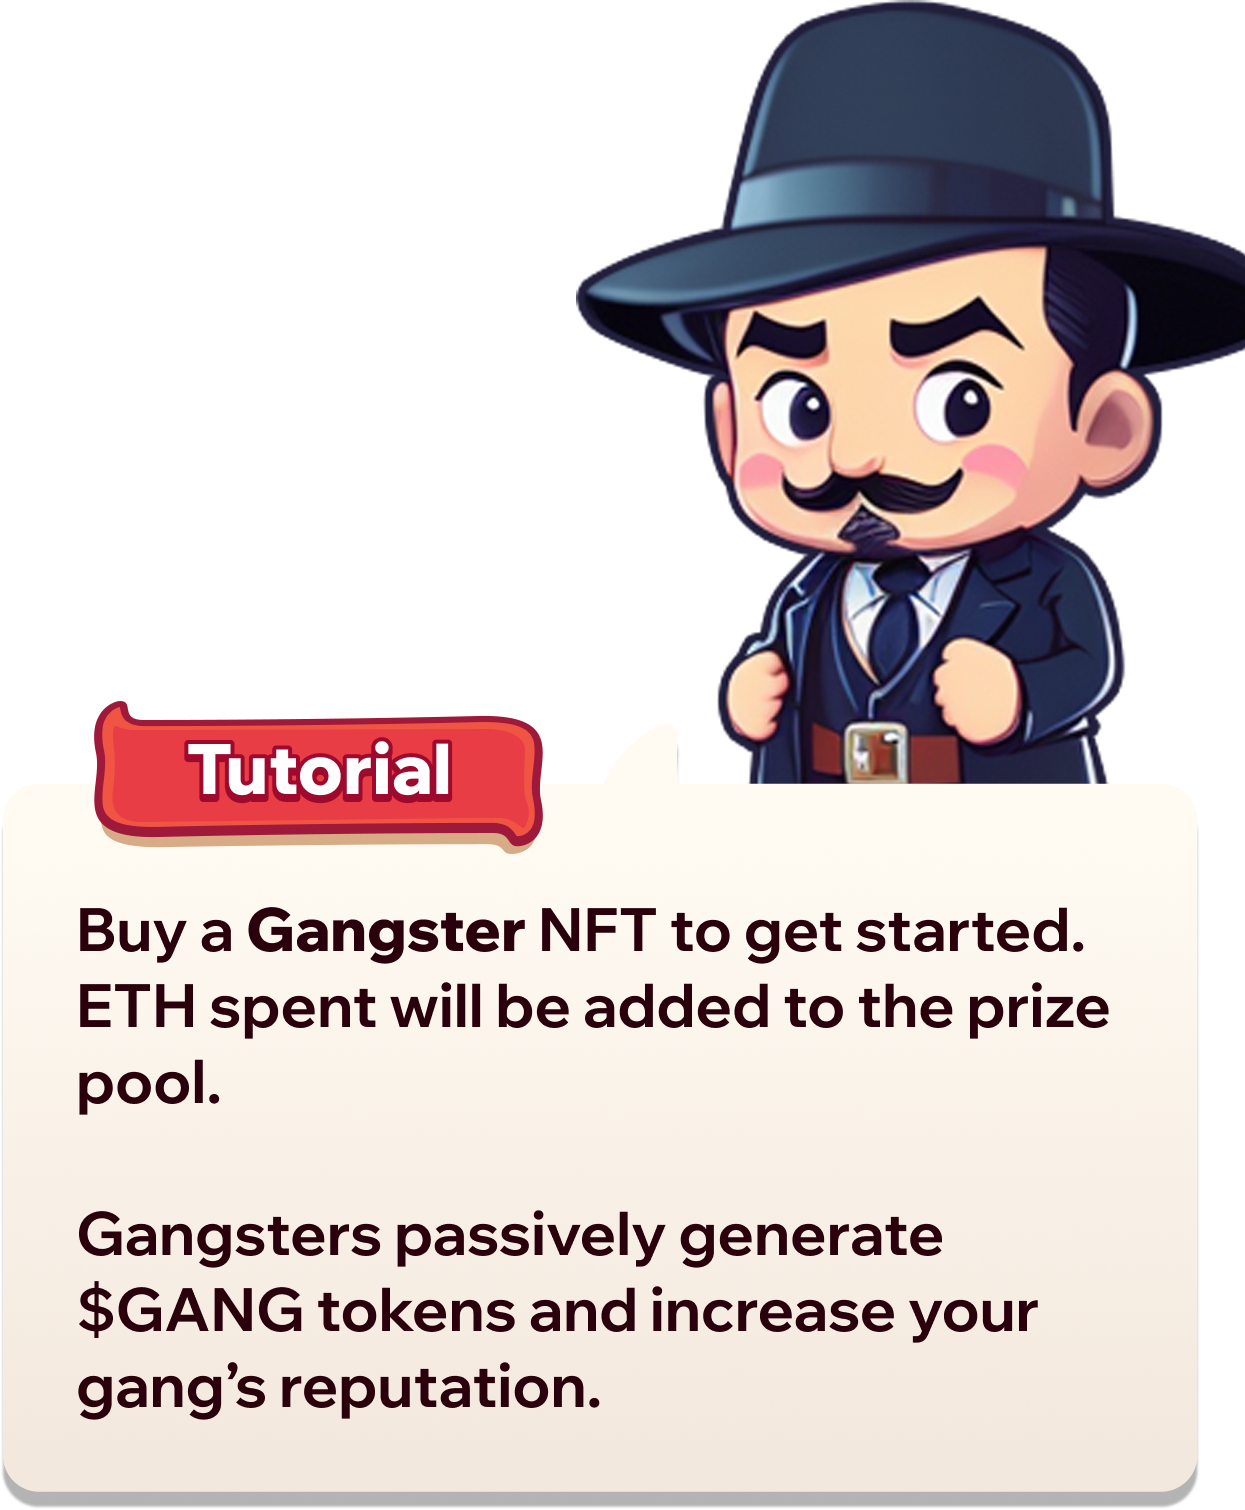
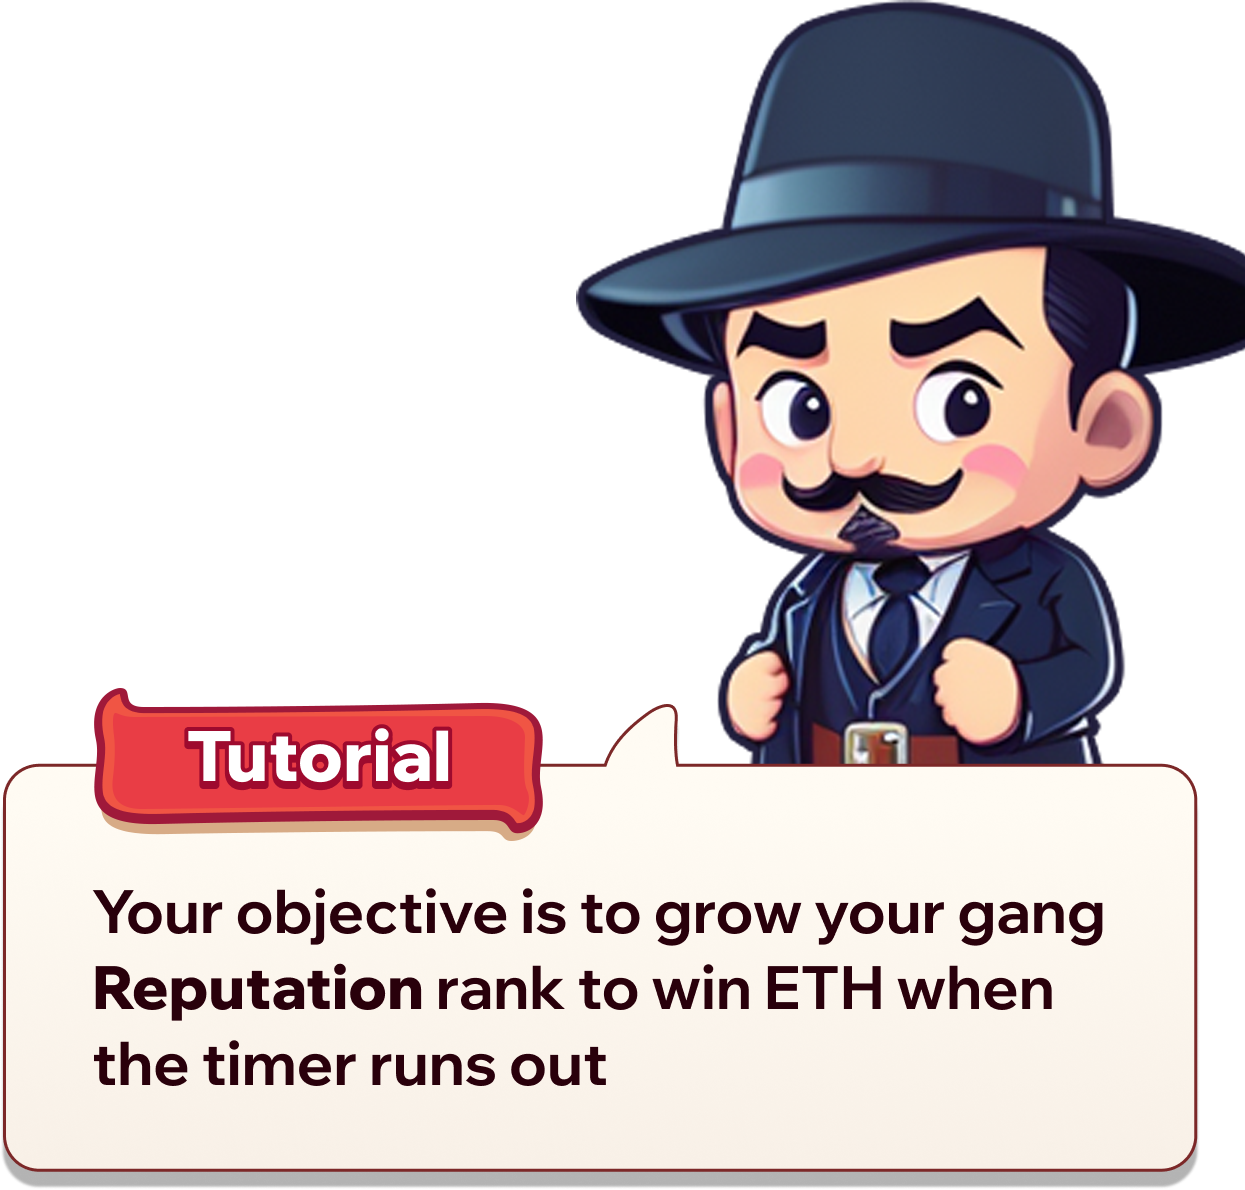
feat: step 2

diff --git a/app/src/pages/Game/components/tutorials/Step2.js b/app/src/pages/Game/components/tutorials/Step2.js
@@ -1,17 +1,12 @@
 import Phaser from 'phaser';
 
-import Button from '../button/Button';
-import configs from '../../configs/configs';
 import TutorialCharacter from './TutorialCharacter';
+import configs from '../../configs/configs';
 
 const { width, height } = configs;
 
-const px = 40;
-const buttonWidth = 288;
-const y = 2600;
-
 class Step2 extends Phaser.GameObjects.Container {
-  clicked = false;
+  openTimeout = null;
 
   constructor(scene, onNext) {
     super(scene, 0, 0);
@@ -19,46 +14,49 @@ class Step2 extends Phaser.GameObjects.Container {
     this.setVisible(false);
 
     const next = () => {
-      scene.popupBuy.setVisible(false);
-      scene.popupBuyGangster.setDepth(5);
-      scene.popupBuyGangster.background?.destroy();
-      scene.popupBuyGangster.open();
+      scene.popupLeaderboard.close();
+      scene.tutorial.background.setVisible(true);
+      scene.tutorial.leftBg?.destroy();
+      scene.tutorial.rightBg?.destroy();
+
       onNext();
     };
 
-    this.activeButton = new Button(
-      scene,
-      width - px - buttonWidth / 2,
-      y,
-      'button-buy',
-      'button-buy-pressed',
-      () => {
-        if (this.clicked) return;
-        this.clicked = true;
+    this.overlay = scene.add.image(width / 2, height / 2 + 20, 'tutorial-2-overlay');
+    this.add(this.overlay);
+    this.character = new TutorialCharacter(scene, width / 2, height - 650, 'tutorial-2', next);
+    this.add(this.character);
+  }
 
-        this.character = new TutorialCharacter(scene, width / 2, height / 2 - 600, 'tutorial-2', () => {});
-        this.add(this.character);
+  start() {
+    // wait for rexUI plugin loader to finish
+    if (!this.scene.popupLeaderboard) {
+      if (this.openTimeout) clearTimeout(this.openTimeout);
+      this.openTimeout = setTimeout(() => this.start(), 200);
+    }
 
-        this.arrow1.setVisible(false);
-        this.arrow.setVisible(true);
-        scene.popupWar.setVisible(false);
-        scene.popupBuy.setDepth(5);
-        scene.popupBuy.updateDisabled({ goonDisabled: true, gangsterDisabled: false, houseDisabled: true });
-        scene.popupBuy.updateCallback(() => next());
-        scene.popupBuy.setVisible(true);
-      },
-      { sound: 'button-1' }
-    );
-    this.add(this.activeButton);
+    this.setVisible(true);
 
-    this.arrow1 = scene.add
-      .image(this.activeButton.x, this.activeButton.y - this.activeButton.height / 2 - 20, 'tutorial-arrow-down')
-      .setOrigin(0.5, 1);
-    this.add(this.arrow1);
+    // effects
+    this.scene.popupLeaderboard.open();
+    this.scene.popupLeaderboard.setDepth(1);
+    this.scene.popupLeaderboard.background?.destroy();
+    this.scene.tutorial.background.setVisible(false);
 
-    this.arrow = scene.add.image(width - 360, 1900, 'tutorial-arrow-right').setOrigin(1, 0);
-    this.arrow.setVisible(false);
-    this.add(this.arrow);
+    const overlayWidth = this.overlay.width * 0.92;
+    if (overlayWidth < width) {
+      const sidePieceWidth = (width - overlayWidth) / 2;
+      this.scene.tutorial.leftBg = this.scene.add
+        .rectangle(0, 0, sidePieceWidth, height, 0x260343, 0.8)
+        .setOrigin(0, 0)
+        .setDepth(1);
+      this.scene.tutorial.rightBg = this.scene.add
+        .rectangle(width, 0, sidePieceWidth, height, 0x260343, 0.8)
+        .setOrigin(1, 0)
+        .setDepth(1);
+      this.scene.add.existing(this.scene.tutorial.leftBg);
+      this.scene.add.existing(this.scene.tutorial.rightBg);
+    }
   }
 }
 

diff --git a/app/src/pages/Game/components/popup/PopupLeaderboard.js b/app/src/pages/Game/components/popup/PopupLeaderboard.js
@@ -32,10 +32,9 @@ class PopupLeaderboard extends Popup {
   items = [];
   avatars = {};
 
-  constructor(scene, { isSimulator, onClose, onClickRank, onClickReputation } = {}) {
+  constructor(scene, { isSimulator } = {}) {
     super(scene, 'popup-extra-large', { title: 'Season Leaderboard', noCloseBtn: true });
 
-    this.onCloseCallback = onClose;
     this.isSimulator = isSimulator;
     const events = {
       updateSeason: isSimulator ? 'simulator-update-season' : 'update-season',
@@ -136,7 +135,6 @@ class PopupLeaderboard extends Popup {
             component.text = this.rankRewards[index];
           });
           this.playerReward.text = `~${formatter.format(this.userRankingReward)}`;
-          if (isSimulator) onClickRank();
         },
       },
       modeTwo: {
@@ -148,7 +146,6 @@ class PopupLeaderboard extends Popup {
             component.text = this.reputationRewards[index];
           });
           this.playerReward.text = `~${formatter.format(this.userReputationReward)}`;
-          if (isSimulator) onClickReputation();
         },
       },
     });
@@ -274,7 +271,6 @@ class PopupLeaderboard extends Popup {
 
   cleanup() {
     this.table?.scrollToTop();
-    this.onCloseCallback?.();
     if (this.table) {
       this.table.setMouseWheelScrollerEnable(false);
       this.leaderboardThumb?.setVisible(false);

diff --git a/app/src/pages/Game/scenes/TutorialScene.js b/app/src/pages/Game/scenes/TutorialScene.js
@@ -157,22 +157,7 @@ class TutorialScene extends Phaser.Scene {
       }); // done
       this.add.existing(this.popupBuyGangster);
 
-      this.popupLeaderboard = new PopupLeaderboard(this, {
-        isSimulator: true,
-        onClose: () => {
-          this.tutorial.step11.setVisible(false);
-          this.tutorial.step12.setVisible(false);
-          this.tutorial.background.setDisplaySize(width, height);
-          this.tutorial.lowerBackground?.destroy();
-          this.tutorial.step13.setVisible(true);
-        },
-        onClickRank: () => {
-          this.tutorial.step12.arrow.setX(width / 2);
-        },
-        onClickReputation: () => {
-          this.tutorial.step12.arrow.setX(width / 2 - this.popupLeaderboard.popup.width * 0.23);
-        },
-      }); // done
+      this.popupLeaderboard = new PopupLeaderboard(this, { isSimulator: true });
       this.add.existing(this.popupLeaderboard);
 
       this.popupPrizePool = new PopupPrizePool(this, { isSimulator: true }); // done

diff --git a/app/src/pages/Game/scenes/LoadingScene.js b/app/src/pages/Game/scenes/LoadingScene.js
@@ -403,6 +403,7 @@ class LoadingScene extends Phaser.Scene {
     this.load.image('tutorial-claim-inactive-btn', '/images/tutorial-claim-inactive-btn.png');
     this.load.image('tutorial-1', '/images/tutorial-1.png');
     this.load.image('tutorial-2', '/images/tutorial-2.png');
+    this.load.image('tutorial-2-overlay', '/images/tutorial-2-overlay.png');
     this.load.image('tutorial-4', '/images/tutorial-4.png');
     this.load.image('tutorial-4-gangster', '/images/tutorial-4-gangster.png');
     this.load.image('tutorial-4-claim-btn', '/images/tutorial-4-claim-btn.png');

diff --git a/app/src/pages/Game/components/tutorials/Tutorial.js b/app/src/pages/Game/components/tutorials/Tutorial.js
@@ -29,7 +29,7 @@ class Tutorial extends Phaser.GameObjects.Container {
 
     this.step1 = new Step1(scene, () => {
       this.step1.setVisible(false);
-      this.step2.setVisible(true);
+      this.step2.start();
     });
     this.add(this.step1);
 
